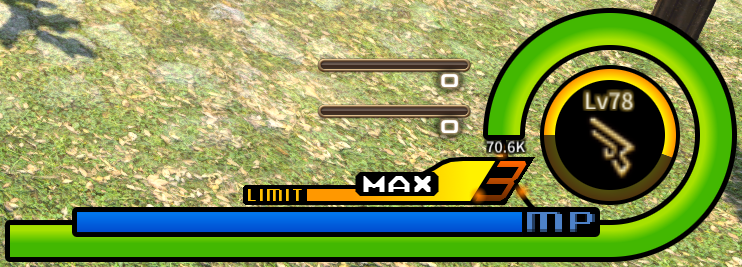
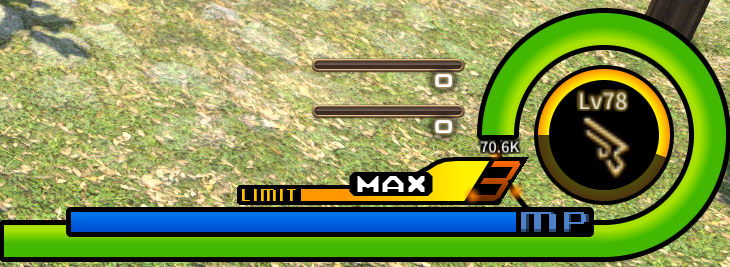
Added support for the Compressed Aether gauges when in Diadem as the Limit Bar.

diff --git a/KingdomHeartsPlugin/UIElements/LimitBreak/LimitGauge.cs b/KingdomHeartsPlugin/UIElements/LimitBreak/LimitGauge.cs
@@ -10,7 +10,6 @@ namespace KingdomHeartsPlugin.UIElements.LimitBreak
 {
     public class LimitGauge
     {
-        private const byte MaxLimitBarWidth = 128;
 
         private TextureWrap _gaugeBackgroundTexture, _gaugeForegroundTexture, _gaugeForegroundColorlessTexture, _maxLimitTexture, _limitTextTexture, _orbTexture;
 
@@ -24,7 +23,7 @@ namespace KingdomHeartsPlugin.UIElements.LimitBreak
 
         public LimitGauge()
         {
-            LimitBreakBarWidth = new int[4];
+            LimitBreakBarWidth = new int[5];
             _gaugeBackgroundTexture = KingdomHeartsPlugin.Pi.UiBuilder.LoadImage(Path.Combine(KingdomHeartsPlugin.TemplateLocation, @"Textures\LimitGauge\background.png"));
             _gaugeForegroundTexture = KingdomHeartsPlugin.Pi.UiBuilder.LoadImage(Path.Combine(KingdomHeartsPlugin.TemplateLocation, @"Textures\LimitGauge\gauge_colored.png"));
             _gaugeForegroundColorlessTexture = KingdomHeartsPlugin.Pi.UiBuilder.LoadImage(Path.Combine(KingdomHeartsPlugin.TemplateLocation, @"Textures\LimitGauge\gauge_white.png"));
@@ -37,10 +36,11 @@ namespace KingdomHeartsPlugin.UIElements.LimitBreak
                 KingdomHeartsPlugin.Pi.UiBuilder.LoadImage(Path.Combine(KingdomHeartsPlugin.TemplateLocation, @"Textures\LimitGauge\number_1.png")),
                 KingdomHeartsPlugin.Pi.UiBuilder.LoadImage(Path.Combine(KingdomHeartsPlugin.TemplateLocation, @"Textures\LimitGauge\number_2.png")),
                 KingdomHeartsPlugin.Pi.UiBuilder.LoadImage(Path.Combine(KingdomHeartsPlugin.TemplateLocation, @"Textures\LimitGauge\number_3.png")),
-                KingdomHeartsPlugin.Pi.UiBuilder.LoadImage(Path.Combine(KingdomHeartsPlugin.TemplateLocation, @"Textures\LimitGauge\number_4.png"))
+                KingdomHeartsPlugin.Pi.UiBuilder.LoadImage(Path.Combine(KingdomHeartsPlugin.TemplateLocation, @"Textures\LimitGauge\number_4.png")),
+                KingdomHeartsPlugin.Pi.UiBuilder.LoadImage(Path.Combine(KingdomHeartsPlugin.TemplateLocation, @"Textures\LimitGauge\number_5.png"))
             };
-            _orbs = new Orb[4];
-            for (int i = 0; i < 4; i++)
+            _orbs = new Orb[5];
+            for (int i = 0; i < 5; i++)
             {
                 _orbs[i] = new Orb();
             }
@@ -52,38 +52,61 @@ namespace KingdomHeartsPlugin.UIElements.LimitBreak
         {
             //Get Limit Break Bar
             var LBWidget = (AtkUnitBase*)KingdomHeartsPlugin.Gui.GetAddonByName("_LimitBreak", 1);
+            //Get Compressed Aether Bar
+            var CAWidget = (AtkUnitBase*)KingdomHeartsPlugin.Gui.GetAddonByName("HWDAetherGauge", 1);
+
+            var foundCeGauge = false;
 
             LimitBreakMaxLevel = 1;
+            MaxLimitBarWidth = 128;
 
-            // Get LB Width
-            if (LBWidget != null)
+            // Daidem Compatibility
+            if (CAWidget != null)
             {
-                if (LBWidget->UldManager.NodeListCount == 6)
+                if (CAWidget->UldManager.NodeListCount == 10)
                 {
-                    if ((LBWidget->UldManager.SearchNodeById(3)->Alpha_2 == 0 || !LBWidget->UldManager.SearchNodeById(3)->IsVisible) && !KingdomHeartsPlugin.Ui.Configuration.LimitGaugeAlwaysShow) return false;
-
-                    for (uint i = 0; i < 3; i++)
+                    if ((CAWidget->UldManager.SearchNodeById(3)->Alpha_2 > 0 && CAWidget->UldManager.SearchNodeById(3)->IsVisible) || KingdomHeartsPlugin.Ui.Configuration.LimitGaugeAlwaysShow)
                     {
-                        LimitBreakBarWidth[i] = LBWidget->UldManager.SearchNodeById(6 - i)->GetComponent()->UldManager.SearchNodeById(3)->Width - 18;
+                        var usedAuger = CAWidget->UldManager.SearchNodeById(10)->IsVisible;
+                        for (uint i = 0; i < 5; i++)
+                        {
+                            var node = CAWidget->UldManager.SearchNodeById(5 + i + (usedAuger ? 1u : 0))->GetComponent()->UldManager.SearchNodeById(3);
+                            LimitBreakBarWidth[i] = node->IsVisible ? node->Width - 14 : 0;
+                        }
 
-                        if (LBWidget->UldManager.SearchNodeById(6 - i)->IsVisible && i > 0) LimitBreakMaxLevel++;
+                        MaxLimitBarWidth = 80;
+                        LimitBreakMaxLevel = 5;
+                        foundCeGauge = true;
                     }
+                }
+            }
 
-                    /*LimitBreakBarWidth[0] = LBWidget->UldManager.SearchNodeById(6)->GetComponent()->UldManager.SearchNodeById(3)->Width - 18;
-                    LimitBreakBarWidth[1] = LBWidget->UldManager.SearchNodeById(5)->GetComponent()->UldManager.SearchNodeById(3)->Width - 18;
-                    LimitBreakBarWidth[2] = LBWidget->UldManager.SearchNodeById(4)->GetComponent()->UldManager.SearchNodeById(3)->Width - 18;
-                    
-                    if (LBWidget->UldManager.SearchNodeById(5)->IsVisible) LimitBreakMaxLevel++;
-                    if (LBWidget->UldManager.SearchNodeById(4)->IsVisible) LimitBreakMaxLevel++;*/
+            if (!foundCeGauge)
+            {
+                // Get LB Width
+                if (LBWidget != null)
+                {
+                    if (LBWidget->UldManager.NodeListCount == 6)
+                    {
+                        if ((LBWidget->UldManager.SearchNodeById(3)->Alpha_2 == 0 || !LBWidget->UldManager.SearchNodeById(3)->IsVisible) &&
+                            !KingdomHeartsPlugin.Ui.Configuration.LimitGaugeAlwaysShow) return false;
+
+                        for (uint i = 0; i < 3; i++)
+                        {
+                            LimitBreakBarWidth[i] = LBWidget->UldManager.SearchNodeById(6 - i)->GetComponent()->UldManager.SearchNodeById(3)->Width - 18;
+
+                            if (LBWidget->UldManager.SearchNodeById(6 - i)->IsVisible && i > 0) LimitBreakMaxLevel++;
+                        }
+                    }
+                    else
+                    {
+                        return false;
+                    }
                 }
                 else
                 {
                     return false;
                 }
-            }
-            else
-            {
-                return false;
             }
 
             // Set Limit Break Level
@@ -135,7 +158,8 @@ namespace KingdomHeartsPlugin.UIElements.LimitBreak
             ImageDrawing.DrawImageQuad(drawList, _numbers[LimitBreakLevel], basePosition + new Vector2(167, 1), new Vector2(30, 0), new Vector2(30, 0), Vector2.Zero, Vector2.Zero,
                 ImGui.GetColorU32(new Vector4(1, 0.4f, 0, 1)));
             // Foreground
-            ImageDrawing.DrawImage(drawList, _gaugeForegroundTexture, basePosition + new Vector2(4, 4), new Vector4(0, 0, LimitBreakLevel == LimitBreakMaxLevel ? 1 : LimitBreakBarWidth[LimitBreakLevel] / 128f, 1));
+            ImageDrawing.DrawImage(drawList, _gaugeForegroundTexture, basePosition + new Vector2(4, 4),
+                new Vector4(0, 0, LimitBreakLevel == LimitBreakMaxLevel ? 1 : LimitBreakBarWidth[LimitBreakLevel] / (float)MaxLimitBarWidth, 1));
             // Text
             ImageDrawing.DrawImage(drawList, _limitTextTexture, basePosition + new Vector2(-60, 28), ImGui.GetColorU32(new Vector4(1, 0.75f, 0, 1)));
             // MAX icon
@@ -144,19 +168,19 @@ namespace KingdomHeartsPlugin.UIElements.LimitBreak
             // Orbs
             for (int i = 0; i < LimitBreakLevel; i++)
             {
-                ImageDrawing.DrawImage(drawList, _orbTexture, basePosition + _orbs[i].Position + new Vector2(190, 14), ImGui.GetColorU32(new Vector4(1, 0.5f, 0, _orbs[i].Alpha)));
+                ImageDrawing.DrawImage(drawList, _orbTexture, basePosition + _orbs[i].Position + new Vector2(192, 14), ImGui.GetColorU32(new Vector4(1, 0.5f, 0, _orbs[i].Alpha)));
             }
         }
 
         public void UpdateOrbs()
         {
-            var radius = 28f;
+            var radius = 30f;
 
             for (int i = 0; i < LimitBreakLevel; i++)
             {
                 var direction = _orbs[i].Angle;
 
-                float pointX = (float)(Math.Cos(_orbs[i].Angle * Math.PI / 180) * radius * 0.9 + Math.Sin(-direction * Math.PI / 180) * radius * 0.10);
+                float pointX = (float)(Math.Cos(_orbs[i].Angle * Math.PI / 180) * radius * 0.9 + Math.Sin(-direction * Math.PI / 180) * radius * 0.3);
 
                 float pointy = (float)(Math.Sin(_orbs[i].Angle * Math.PI / 180) * radius);
 
@@ -178,7 +202,7 @@ namespace KingdomHeartsPlugin.UIElements.LimitBreak
 
         public void ResetOrbs()
         {
-            for (int i = 0; i < 4; i++)
+            for (int i = 0; i < 5; i++)
             {
                 _orbs[i].Position = Vector2.Zero;
                 _orbs[i].Alpha = 0;
@@ -210,5 +234,6 @@ namespace KingdomHeartsPlugin.UIElements.LimitBreak
         private int LimitBreakLevel { get; set; }
         private int LimitBreakMaxLevel { get; set; }
         private int[] LimitBreakBarWidth { get; }
+        private int MaxLimitBarWidth { get; set; }
     }
 }

diff --git a/KingdomHeartsPlugin/KingdomHeartsPlugin.cs b/KingdomHeartsPlugin/KingdomHeartsPlugin.cs
@@ -17,7 +17,7 @@ namespace KingdomHeartsPlugin
 
         private const string CommandName = "/khp";
         
-        private readonly string _assemblyLocation = Assembly.GetExecutingAssembly().Location;
+        private string _assemblyLocation = Assembly.GetExecutingAssembly().Location;
 
         public static DalamudPluginInterface Pi { get; private set; }
         public static Framework Fw { get; private set; }
@@ -48,6 +48,8 @@ namespace KingdomHeartsPlugin
             Dm = dataManager;
             
             Timer = Stopwatch.StartNew();
+
+            _assemblyLocation ??= Assembly.GetExecutingAssembly().Location;
 
             TemplateLocation = Path.GetDirectoryName(_assemblyLocation);
             

diff --git a/KingdomHeartsPlugin/PluginUI.cs b/KingdomHeartsPlugin/PluginUI.cs
@@ -14,8 +14,8 @@ namespace KingdomHeartsPlugin
     {
         internal Configuration Configuration;
         private readonly HealthFrame _healthFrame;
-        private TextureWrap _testTextureWrap;
-        /*private float _width;
+        /*private TextureWrap _testTextureWrap;
+        private float _width;
         private float _height;
         private float[] pos;
         private float[] pos2;

diff --git a/KingdomHeartsPlugin/Utilities/ImGuiAdditions.cs b/KingdomHeartsPlugin/Utilities/ImGuiAdditions.cs
@@ -73,7 +73,7 @@ namespace KingdomHeartsPlugin.Utilities
         {
             var x = position.X;
             var y = position.Y;
-
+            
             for (var i = -shadowWidth; i < shadowWidth; i++)
             {
                 for (var j = -shadowWidth; j < shadowWidth; j++)
